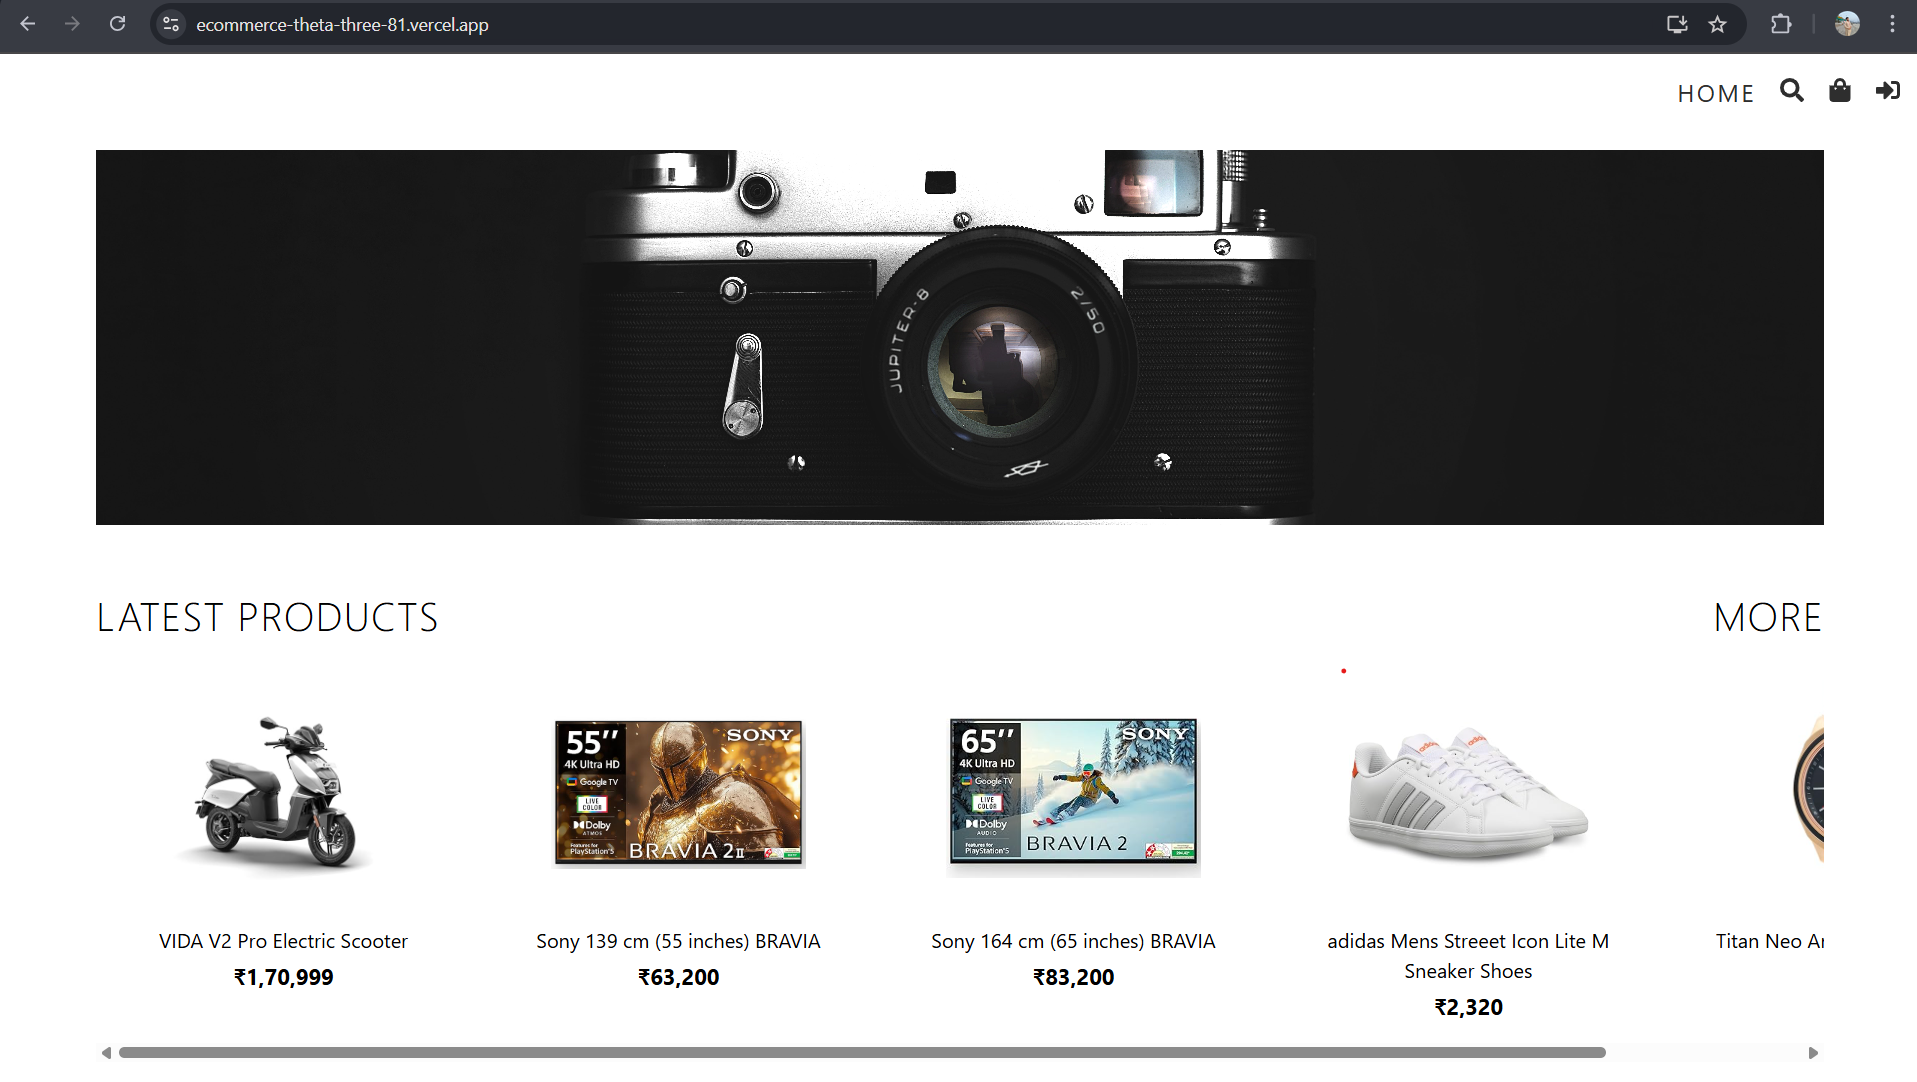
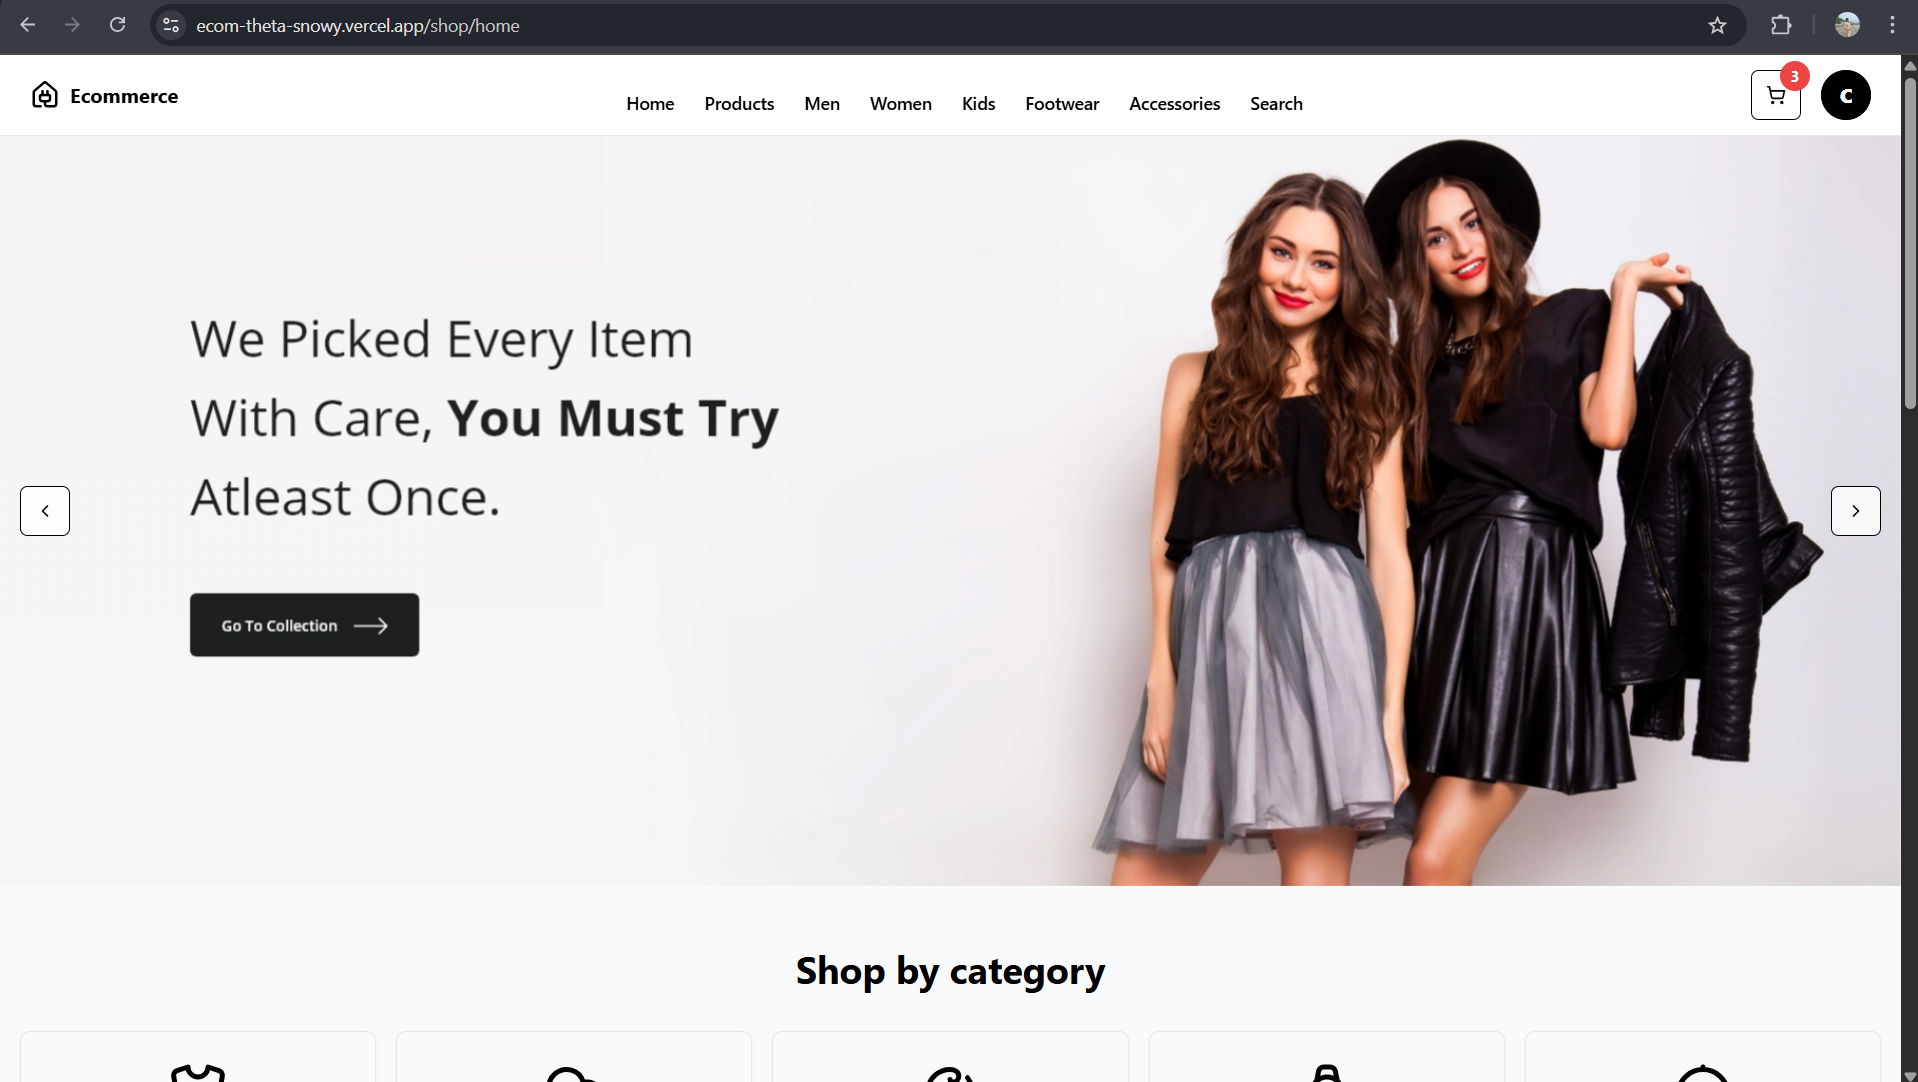
add

diff --git a/src/assets/data/project-data.ts b/src/assets/data/project-data.ts
@@ -6,8 +6,8 @@ export const PROJECTS: project[] = [
         id: 0,
         name: "Ecommerce",
         pictures: ["../../assets/ecommerce1.png"],
-        projectLink: "https://github.com/Nishant8826/ecommerce.git",
-        liveLink: "https://ecommerce-theta-three-81.vercel.app/",
+        projectLink: "https://github.com/Nishant8826/ecom.git",
+        liveLink: "https://ecom-theta-snowy.vercel.app/",
         summary: "Full-featured ecommerce app with cart, payments, and admin dashboard.",
         description: "This is a MERN stack ecommerce platform featuring product browsing, cart management, user authentication, Stripe payments, and an admin dashboard to manage products and orders. The UI is built with Chakra UI and state is managed using Redux.",
         tags: [Tag.NODEJS, Tag.REACT, Tag.REDUX, Tag.STRIPE, Tag.FIREBASE, Tag.MONGODB]
